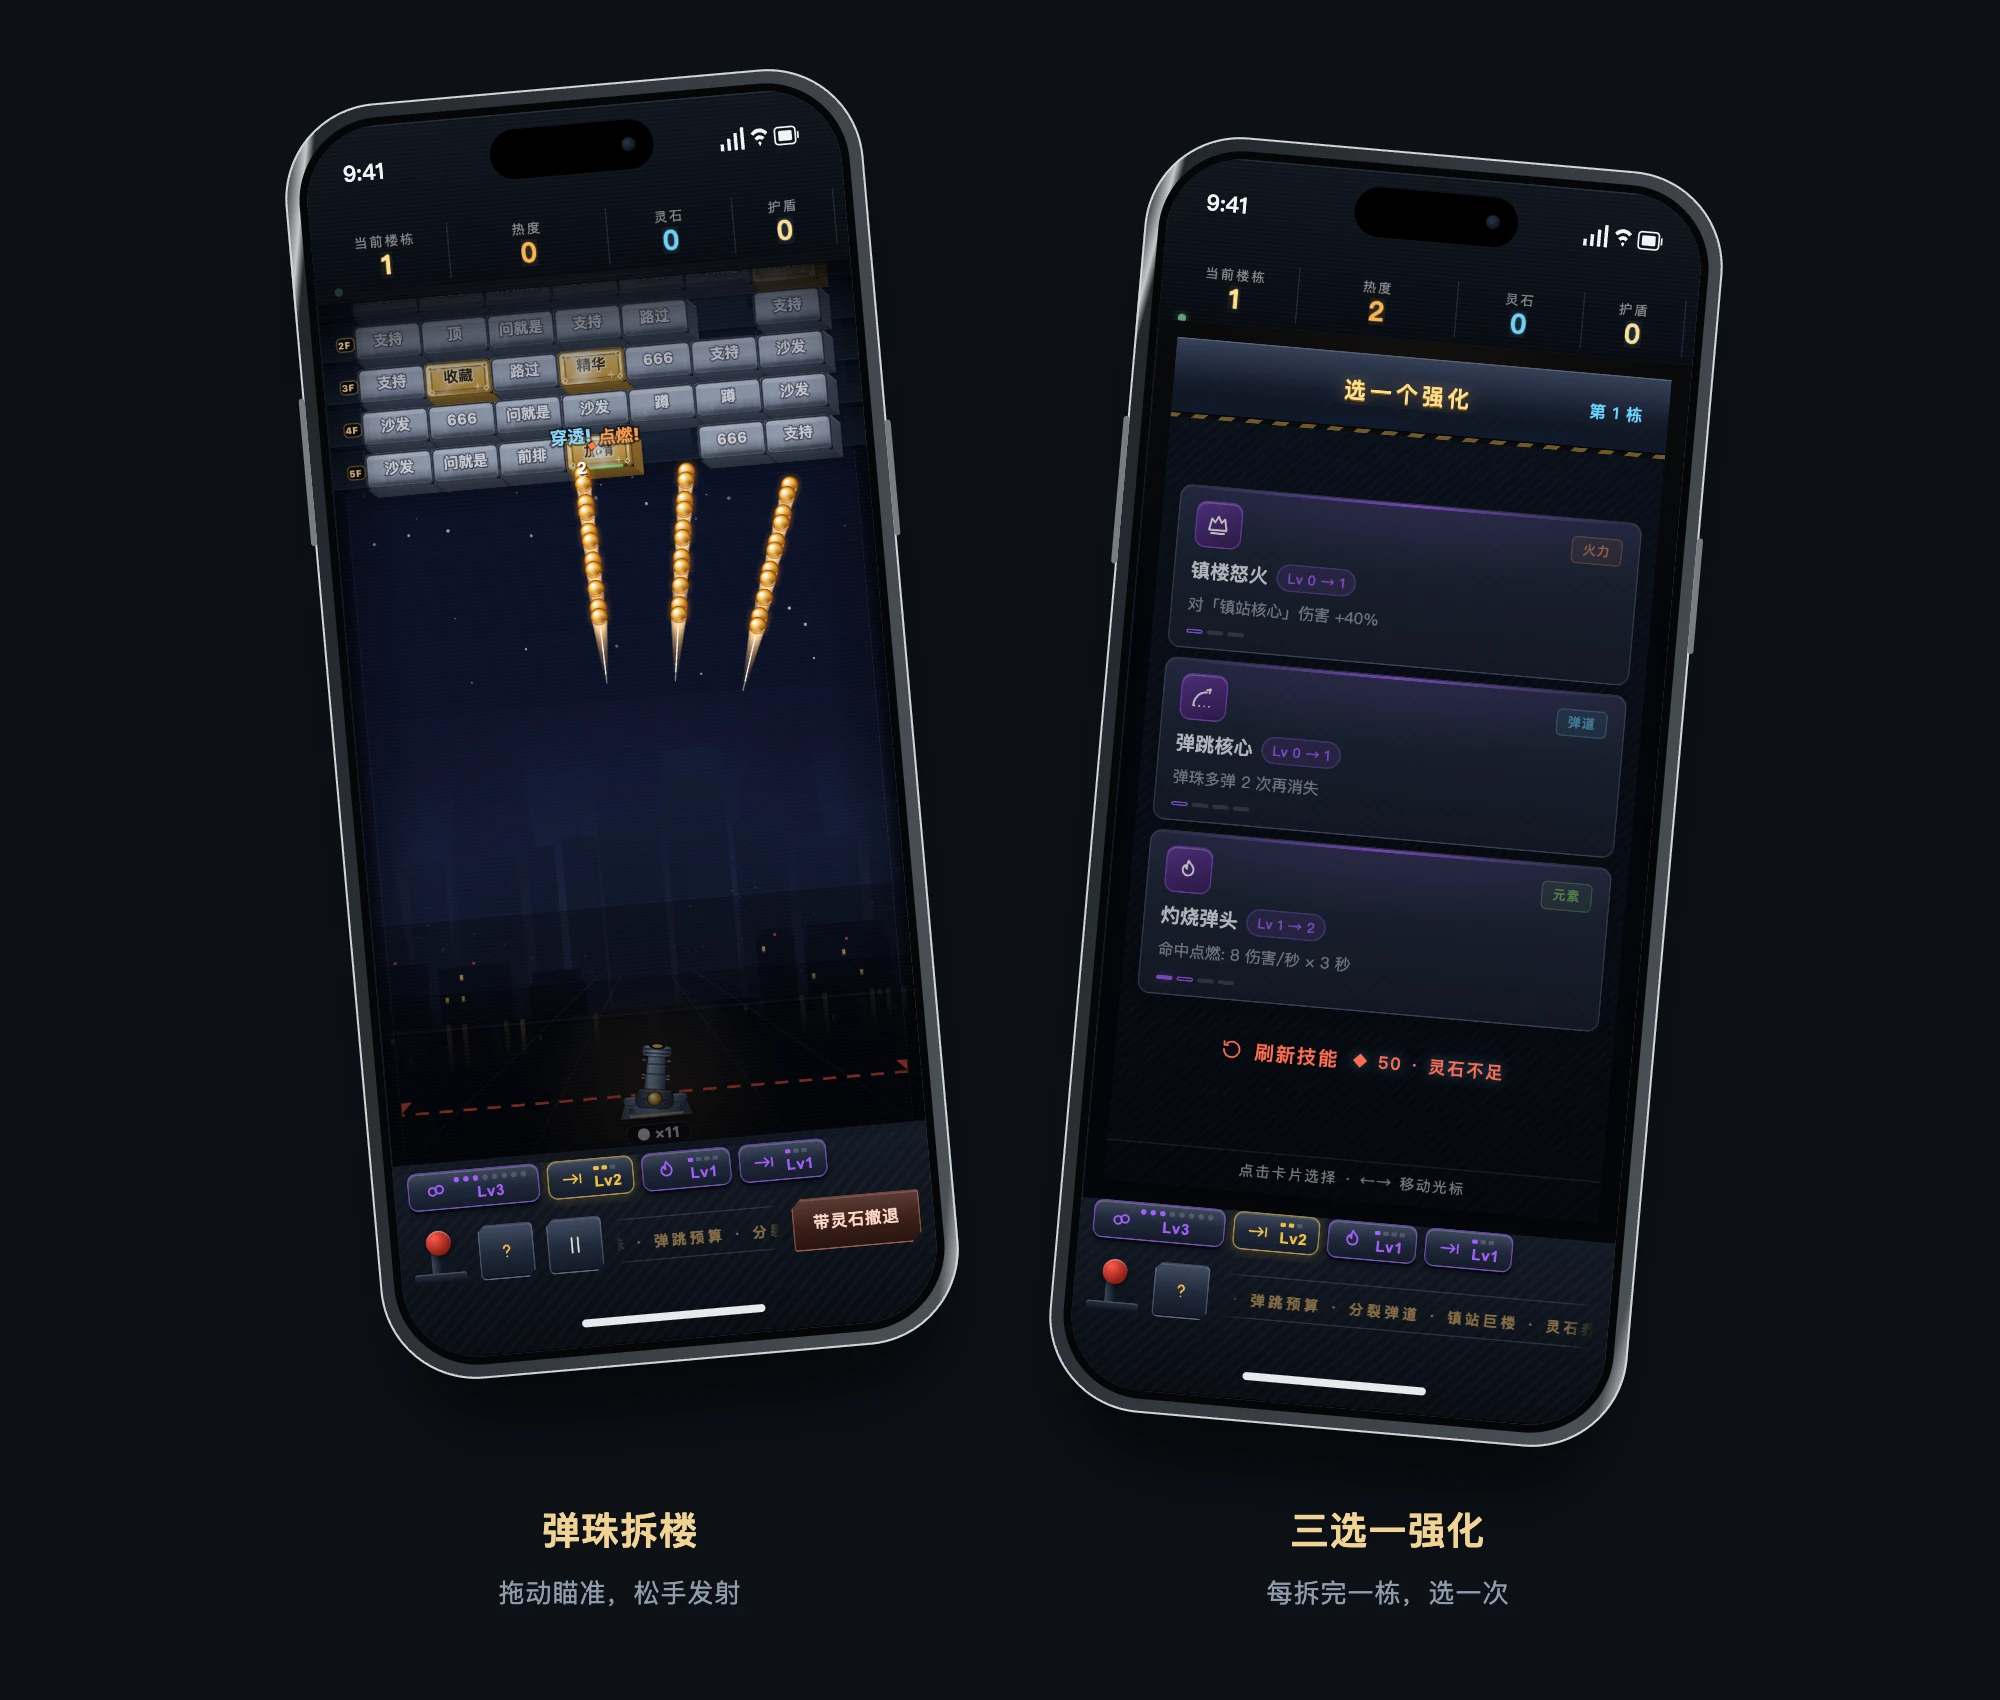
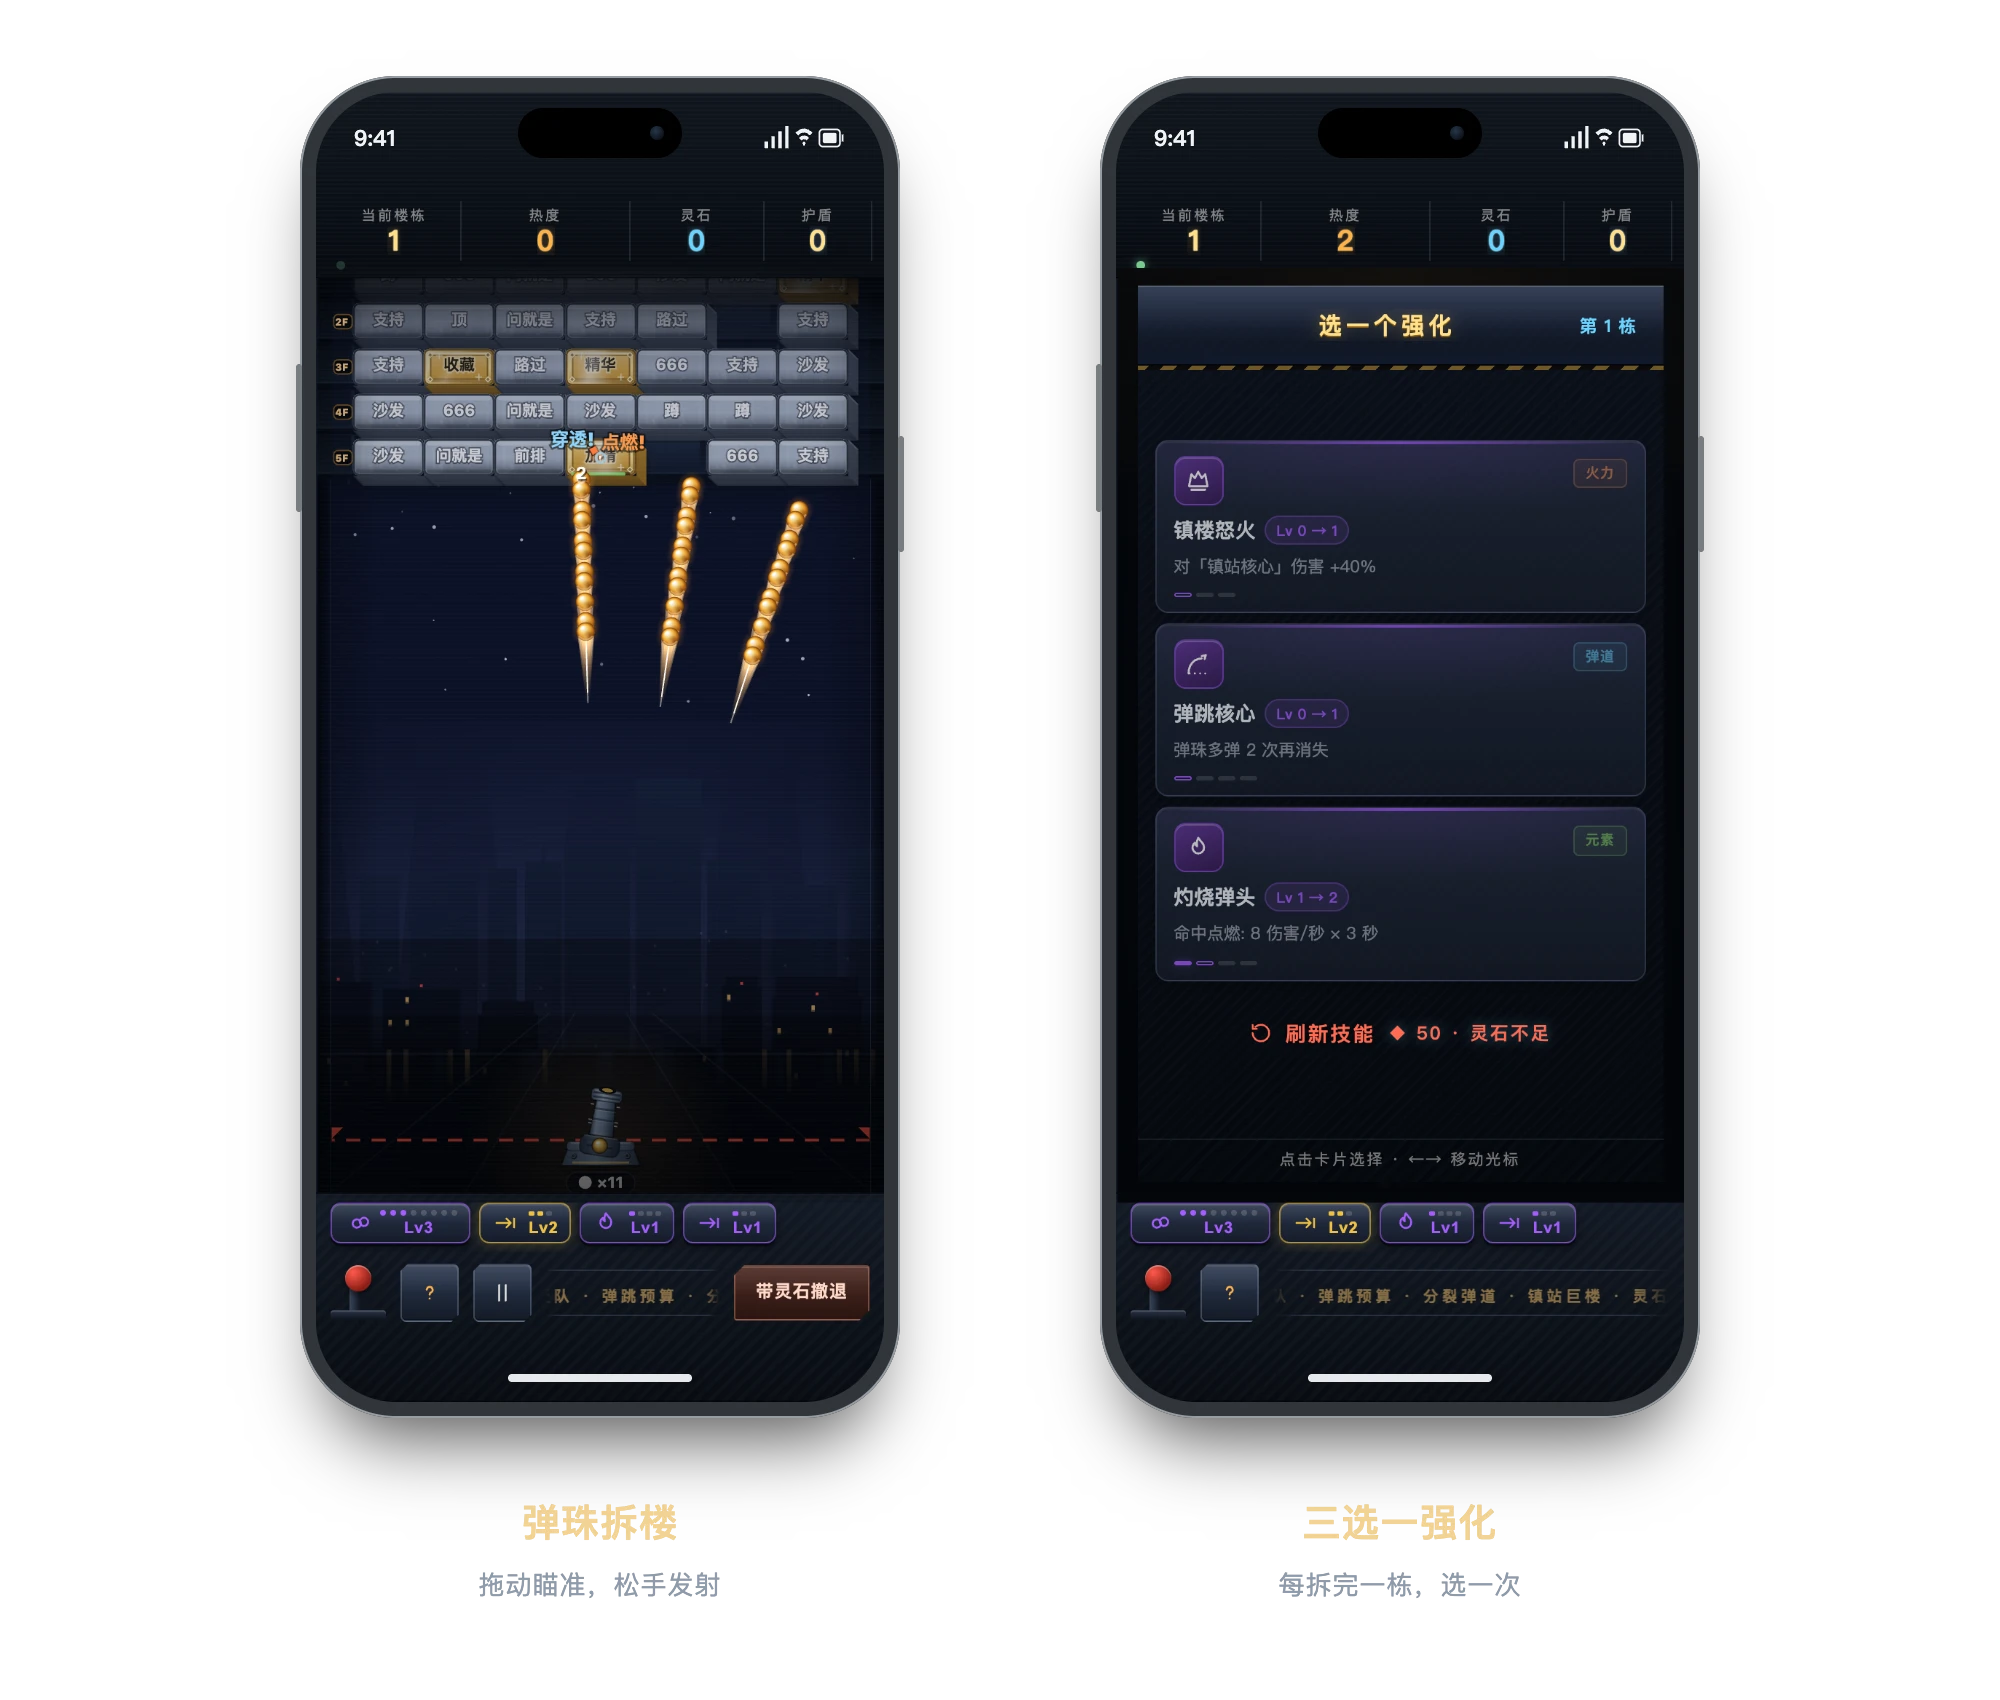
docs(readme): 重做产品首页与透明机框展示
采用居中标题、技术徽章、页内导航和简短特性，补充快速开始与部署说明。机框改为正面等比展示，保留明暗主题和透明背景，并校验截图比例。

diff --git a/README.md b/README.md
@@ -1,72 +1,90 @@
-# 拆楼弹珠
+<h1 align="center">弹珠拆迁队</h1>
 
-一个以论坛水楼为题材的弹珠游戏。拖动瞄准，松手发射，赶在楼压下来之前把它拆掉。
+<p align="center">
+  Marble Wreckers<br>
+  论坛水楼题材的弹珠 Roguelike，支持手机与桌面浏览器。
+</p>
 
-[本地运行](#本地运行)
+<p align="center">
+  <a href="https://www.typescriptlang.org/"><img src="https://img.shields.io/badge/TypeScript-5.9-3178C6?style=flat-square" alt="TypeScript 5.9"></a>
+  <a href="https://developer.mozilla.org/docs/Web/API/Canvas_API"><img src="https://img.shields.io/badge/Canvas-2D-C49B3B?style=flat-square" alt="Canvas 2D"></a>
+  <a href="https://bun.sh/"><img src="https://img.shields.io/badge/Bun-%E2%89%A5%201.4-555555?style=flat-square" alt="Bun 1.4 或更新版本"></a>
+</p>
+
+<p align="center">
+  <a href="#特性">特性</a> ·
+  <a href="#快速开始">快速开始</a> ·
+  <a href="#操作">操作</a> ·
+  <a href="#部署">部署</a>
+</p>
 
 <p align="center">
   <picture>
     <source media="(prefers-color-scheme: dark)" srcset="docs/images/hero-dark.webp">
     <source media="(prefers-color-scheme: light)" srcset="docs/images/hero-light.webp">
-    <img src="docs/images/hero-light.webp" width="880" alt="左侧是弹珠拆楼的游戏画面，右侧是过关后的强化选择。">
+    <img src="docs/images/hero-light.webp" width="720" alt="弹珠拆迁队实机画面：左侧为多线弹珠拆楼，右侧为三选一强化。">
   </picture>
 </p>
 
-## 怎么玩
+## 特性
 
-楼里的砖块叫「水贴」「神帖」「引战」「回帖」……「引战」会炸到周围的砖，「回帖」会帮附近的砖回血。
+拖动瞄准，松手发射，在楼压下来之前拆掉它。每拆完一栋选一次强化，继续挑战更高的楼。
 
-每拆完一栋，从三张强化卡里选一张。有分身、穿透、暴击，也有毒和火，一共 19 种，可以叠加。攒够灵石还能重抽。
+- **论坛主题砖块**：「引战」会爆炸，「回帖」会回血，「加固」限制单次伤害。不同砖块需要不同的拆法。
+- **局内构筑**：19 种可叠加强化，包括分身、多线弹道、穿透、暴击和毒火效果；每过一栋三选一，也能花灵石重抽。
+- **Boss 与遗物**：每五栋挑战一次带双层护甲的 Boss，击败后可选择带有副作用的遗物。
+- **长期进度**：灵石可购买永久升级，成就和纪录自动保存；每日挑战使用当天的固定种子。
+- **手机与桌面适配**：触摸、鼠标和键盘操作，宽屏作战面板，明暗主题、合成音效与减少动效设置。
 
-每五栋会遇到一次 Boss，要先打掉护甲，再打核心。打赢后可以选遗物，不过遗物通常也带着副作用。
+## 快速开始
 
-选到的强化只在这一局有效。灵石能带回商店，用来买永久升级。还有每日挑战，同一天使用相同种子生成楼栋。
-
-## 操作
-
-- **手机**：按住拖动瞄准，松手发射。
-- **电脑**：鼠标操作，或用 **← →** 瞄准、**空格 / Enter** 发射、**Esc / P** 暂停。
-
-进度自动存在本地，可以关掉后继续。换浏览器或网址前，先在设置里导出存档。
-
-明暗主题默认跟随系统。音效、震屏和减少动效也可以在设置里调整。
-
-## 本地运行
-
-需要 [Bun](https://bun.sh/) 1.4 或更新版本。
+安装 [Bun](https://bun.sh/) 1.4 或更新版本，在项目目录运行：
 
 ```sh
 bun install
 bun run dev
 ```
 
-浏览器打开 **<http://localhost:5194/>**。手机与电脑连接同一 Wi-Fi 后，也可以用电脑的局域网 IP 加 `:5194` 打开。
+打开 [localhost:5194](http://localhost:5194/)。手机与电脑连接同一 Wi-Fi 后，可通过电脑的局域网 IP 加 `:5194` 访问。
 
-<details>
-<summary>部署与开发</summary>
+## 操作
 
-### Vercel
+| 操作 | 触摸 / 鼠标 | 键盘 |
+| --- | --- | --- |
+| 瞄准 | 按住画面拖动 | `←` / `→` |
+| 发射 | 松开 | `Space` / `Enter` |
+| 暂停 | 点击暂停按钮 | `Esc` / `P` |
 
-仓库里有 [vercel.json](vercel.json)，导入 Vercel 时使用以下配置：
+进度保存在当前浏览器中，关闭后可以继续。换浏览器或域名前，请先在设置里导出存档。
 
-| 配置 | 值 |
-| --- | --- |
-| 安装命令 | `bun install --frozen-lockfile` |
-| 构建命令 | `bun run build:h5` |
-| 输出目录 | `dist/web` |
-
-不需要后端或环境变量。部署后可以直接分享网址。
-
-### 构建
-
-普通网页使用 `localStorage` 存档、跟随系统主题；linux.do 快应用使用宿主的存储、主题与用户能力。核心玩法共用同一份代码。
+## 部署
 
 ```sh
-bun run build:h5        # 独立网页 → dist/web/
-bun run preview:h5      # 预览生产构建 → http://localhost:5195/
-bun run build:miniapp   # linux.do 快应用 → dist/package/app.zip
-bun run check          # 类型、架构约束、129 项单测、13 项浏览器验收
+bun run build:h5
 ```
+
+将 `dist/web/` 部署到任意静态站点托管服务即可，不需要后端或环境变量。
+
+**Vercel**：导入仓库，使用已有的 [vercel.json](vercel.json)。安装、构建命令和输出目录均已配置。
+
+<details>
+<summary>开发命令与其他运行方式</summary>
+
+### 常用命令
+
+| 命令 | 用途 |
+| --- | --- |
+| `bun run dev` | 本地开发，端口 `5194` |
+| `bun run build:h5` | 生成独立网页版，输出至 `dist/web/` |
+| `bun run preview:h5` | 预览网页构建，端口 `5195` |
+| `bun run build:miniapp` | 生成 linux.do 快应用包，输出至 `dist/package/app.zip` |
+| `bun run check` | 类型检查、架构约束、单元测试和浏览器验收 |
+
+浏览器验收需要本机 Chrome 和已启动的开发服务器。
+
+### 运行方式
+
+普通网页使用 `localStorage` 存档、跟随系统主题；linux.do 快应用使用宿主的存储、主题与用户能力。核心玩法共用同一份代码。
 
 SDK 通过 `file:./sdk` 引入，部署时需保留该目录。静态构建需要通过 HTTP(S) 访问。
 
@@ -75,10 +93,6 @@ TapTap 使用 `dist/web/` 中的站点文件打 H5 zip，按[官方流程](https
 ### 素材与权限
 
 游戏画面由 Canvas 与内联 SVG 绘制，音效由 WebAudio 合成；不加载外部字体、图片或音频。linux.do 端只申请 `user.read`、`theme.read`、`storage.read`、`storage.write` 四项权限。
-
-### 已知不足
-
-Boss 目前以护甲机制为主，单局节奏还需要更多真人反馈；DPR 3 暂未实测。
 
 ### 更新 README 展示图
 
